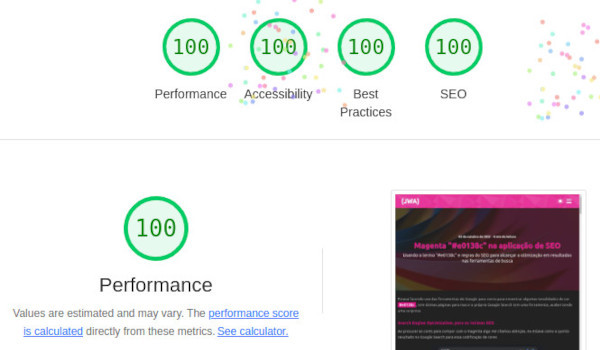
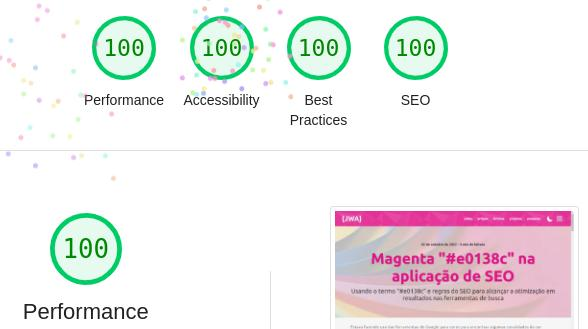
:zap: Redução do tamanho das imagens

diff --git a/posts/2022-09-28-Construindo_Layout_2.0.md b/posts/2022-09-28-Construindo_Layout_2.0.md
@@ -21,7 +21,7 @@ Amo desenvolvimento, gosto muito de aprender e experimentar coisas novas, docume
 
 Estava cansado da interface antiga, gerada no curso de Gatsby do [William Justen](https://willianjusten.com.br/)
 
-![Interface do site com listagens três artigos e três projetos](/figures/layout_old.png "Interface antiga")
+![Interface do site com listagens três artigos e três projetos](/figures/layout_old.jpg "Interface antiga")
 
 Resolvi que era hora de abraçar algo mais exótico e menos contido e conciso, seguindo alguns conselhos do [Josh Comeau](https://www.joshwcomeau.com/) descritos no ebook "Building an effective dev portfolio" comecei o meu processo
 
@@ -35,7 +35,7 @@ Ele também recomendou o uso de Parallax para as formas, resolvida pelo o uso da
 
 Recomendado pelo Josh, trazer uma coisa criativa para perfil, trabalhei com o _scroll_ da tela fiz uma animação reagindo a barra descendo
 
-![Homem em tons de cinza olhando para cima](/figures/layout_react.png "Reagindo a barra descendo")
+![Homem em tons de cinza olhando para cima](/figures/layout_react.jpg "Reagindo a barra descendo")
 
 Para produzir os grafismos usei conhecimento prévio sobre o Inkscape, conquistado na produção das tirinhas, e vários tutorias do [Logos By Nick no Youtube](https://www.youtube.com/c/LogosByNick)
 
@@ -43,7 +43,7 @@ Para produzir os grafismos usei conhecimento prévio sobre o Inkscape, conquista
 
 Acabei me empolgando com os triângulos mudando as formas mais arredondas para composição de triângulos
 
-![Área de habilidades com background com vários triângulos](/figures/layout_triangles.png "Porfólio com decoração de triângulos")
+![Área de habilidades com background com vários triângulos](/figures/layout_triangles.jpg "Porfólio com decoração de triângulos")
 
 Apaixonado pelos triângulos e as cores recomendadas <span style="background-color: #e0138c;" class="text-color">#e0138c</span>, <span style="background-color: #8857c3;" class="text-color">#8857c3</span> e <span style="background-color: #44b5ef;" class="text-color light">#44b5ef</span>, no processo de experimentação apareceu o efeito neon, abrindo a possibilidade de aloprar um pouco mais na área de projetos
 
@@ -51,21 +51,21 @@ Apaixonado pelos triângulos e as cores recomendadas <span style="background-col
 
 Buscando algumas referências encontrei no [Behance do Achraf El Gassab](https://www.behance.net/gallery/109550375/foodly-food-web-page) um desenho para uma página de serviço de alimentação, com uma organização deliciosa (piada intencional):
 
-![Imagem com vários pratos com fundo com efeito de vidro semi-transparente](/figures/layout_food.png "Layout do site de receita")
+![Imagem com vários pratos com fundo com efeito de vidro semi-transparente](/figures/layout_food.jpg "Layout do site de receita")
 
 Me inspirando, organizei os projetos de uma maneira semelhante, infelizmente as páginas fazem mais sentido serem representadas com retângulos, diferente dos pratos, o efeito de desfoque (_blur_) simulando vidro é lindo, anotar para um futuro uso 😉
 
 Explorando as formas e cores, lembrei um jogo que paródia essa temática, o [Far Cry 3 - Blood Dragon](https://store.steampowered.com/app/233270/Far_Cry_3__Blood_Dragon/) que tem um background lindo, essa beleza aqui:
 
-![Área de habilidades com background com vários triângulos](/figures/layout_blood_dragon.png "Background Far Cry 3 Blood Dragon")
+![Área de habilidades com background com vários triângulos](/figures/layout_blood_dragon.jpg "Background Far Cry 3 Blood Dragon")
 
 Levando em consideração que a página deve funcionar bem com o tema claro e o escuro, adicionei um desfoque e transparência na imagem de fundo com esse resultado:
 
-![Horizonte em neon com montanhas ao fundo](/figures/layout_horizont.png "Fundo da página no tema claro e escuro")
+![Horizonte em neon com montanhas ao fundo](/figures/layout_horizont.jpg "Fundo da página no tema claro e escuro")
 
 Resgatando a experiência [Neon Letters](/web/neonletters.html), para criar um letreiro neon, com a composição de texto branco e várias sombras, criei o descrição da página. No fundo ficou um pouco vazio, voltando ao [Logos By Nick](https://www.youtube.com/c/LogosByNick) encontrei nos tutoriais como fazer uma séries de linhas para dar efeito de fluídos, com uso de lápis ondulado com alta suavição e interpolação de caminhos (_paths_), que harmonizou demais com o letreiro
 
-![Luminária com várias linhas no fundo com efeitos de fluidos](/figures/layout_letters.png "Letreiro neon com fundo de fluídos")
+![Luminária com várias linhas no fundo com efeitos de fluidos](/figures/layout_letters.jpg "Letreiro neon com fundo de fluídos")
 
 ## Atualizando Gatsby
 
@@ -81,7 +81,7 @@ Na versão anterior fazia uso da biblioteca [react-helmet](https://github.com/nf
 
 Incorporando as configurações de SEO orientado pela documentação [Adicionando SEO Component](https://www.gatsbyjs.com/docs/how-to/adding-common-features/adding-seo-component/) para melhorar os resultados de pesquisa no Google Search e gerar os cards com _thumbnail_ e descrição quando compartilhado o link
 
-![Homem em tons de cinza abaixado olhando para frente](/figures/layout_thumbnail.png "Reagindo a barra descendo")
+![Homem em tons de cinza abaixado olhando para frente](/figures/layout_thumbnail.jpg "Reagindo a barra descendo")
 
 Realizado com sucesso para todas as redes sociais testada, exceto no Whatsapp, futuramento resolvo essa situação ou se souber o que falta comente por favor ou entre em contato por alguma rede social
 
@@ -114,7 +114,7 @@ Ver esses confetes dá uma alegria no coração
 
 A versão antiga da listagem de artigos tinha um certo charme por ser simples, as imagens dos artigos e a listagem com tags dos artigos passa uma mensagem clara
 
-![Lista de artigos com barra lateral com foto pequena e links](/figures/layout_old_list.png "Lista antiga de artigos")
+![Lista de artigos com barra lateral com foto pequena e links](/figures/layout_old_list.jpg "Lista antiga de artigos")
 
 Mantendo a simplicidade da listagem dos artigos e trazendo sobreposição de cinza com magenta, característica dessa nova interface, adicionei um filtro de escala de cinza para as imagens, fazendo elas ganharam cores saturadas quando o mouse passa por cima e as tags para passar mais uma experiência de etiqueta, coloquei um buraco e com anel de metal para passar a linha
 
@@ -122,7 +122,7 @@ Adicionei também uma imagem minha com uma animação de sério e sorrindo, com 
 
 Mas a melhor parte foi a adição dos links das categorias para ajudar no momento da exploração dos artigos do lado direito
 
-![Lista de artigos com barra no topo com links e uma foto grande dentro de um triângulo](/figures/layout_new_list.png "Lista nova de artigos")
+![Lista de artigos com barra no topo com links e uma foto grande dentro de um triângulo](/figures/layout_new_list.jpg "Lista nova de artigos")
 
 Para mim na página de tirinhas, não fazia sentido usar uma imagen minha juntos com os personagens, então criei uma versão minha dentro do mesmo modelo deles
 
@@ -132,7 +132,7 @@ Para mim na página de tirinhas, não fazia sentido usar uma imagen minha juntos
 
 Na versão antiga havia duas barras laterais, que na versão mobile se convertiam em cabeçalho e rodapé, elas eram bem simples com os links das páginas e redes sociais, para a nova versão aproveitei as lições aprendidas, sobre GIMP, efeito neon e alguns filtros para criar essa imagem linda, usar uma jaqueta de couro faria mais sentido para a imagem...
 
-![Foto de alguém em semi perfil com gola levantada com óculos escuros](/figures/layout_rodape.png "Imagem do rodapé")
+![Foto de alguém em semi perfil com gola levantada com óculos escuros](/figures/layout_rodape.jpg "Imagem do rodapé")
 
 Para completar adicionei os links das redes sociais e os links dos RSS
 

diff --git a/posts/2022-10-02-seo_e0138c.md b/posts/2022-10-02-seo_e0138c.md
@@ -21,7 +21,7 @@ Estava fazendo uso das ferramentas do Google para cores para encontrar algumas t
 
 Ao procurar as cores para compor com o magenta algo me chamou atenção, eu estava como o quinto resultado no Google Search para essa codificação de cores
 
-![Resultado de pesquisa do Google Search com um seta vermelha na quinta posição](/figures/seo_cor_2022-09-28.jpg "Box Shadow | Johny W. Alves 5ª posição")
+![Resultado de pesquisa do Google Search com um seta vermelha na quinta posição](/figures/seo_cor_2022-09-28.webp "Box Shadow | Johny W. Alves 5ª posição")
 
 Por que não procurar o primeiro lugar?
 
